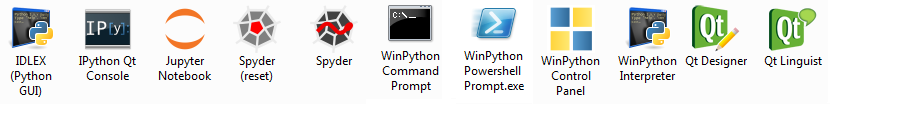
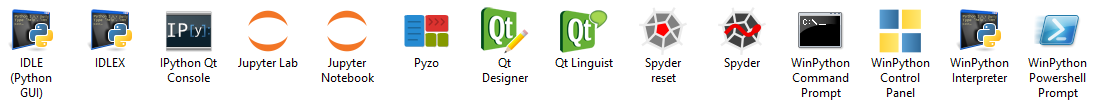
WinPython 2018-03 final

diff --git a/index.html b/index.html
@@ -26,6 +26,15 @@
 </p>
 
 		<h2 id="releases">Recent Releases </h2>
+		<p>Release <a href="https://github.com/winpython/winpython/issues/649">2018-03</a> of September 4th, 2018 </p>
+
+		<p>Highlights (**): pandas-0.23.4, scikit-learn-0.19.2, spyder-3.3.1, jupyterlab-0.34.7 , rise-5.4.1, idlex-1.18 (<a href="https://github.com/winpython/winpython/blob/master/changelogs/WinPythonZero-64bit-3.6.6.2.md">Zero</a> Version)</p>
+		<ul>
+			<li>WinPython <strong>3.6</strong>.6.2Qt5-64bit (*) <a href="https://github.com/winpython/winpython/blob/master/changelogs/WinPythonQt5-64bit-3.6.6.2_History.md">Changelog</a>, <a href="https://github.com/winpython/winpython/blob/master/changelogs/WinPythonQt5-64bit-3.6.6.2.md">Packages</a> and <a href="https://sourceforge.net/projects/winpython/files/WinPython_3.6/3.6.6.2/">Downloads</a></li> or <a href="https://github.com/winpython/winpython/releases/tag/1.10.20180827">Github Downloads</a></li>
+			<li>WinPython <strong>3.6</strong>.6.2Qt5-32bit (*) <a href="https://github.com/winpython/winpython/blob/master/changelogs/WinPythonQt5-32bit-3.6.6.2_History.md">Changelog</a>, <a href="https://github.com/winpython/winpython/blob/master/changelogs/WinPythonQt5-32bit-3.6.6.2.md">Packages</a> and <a href="https://sourceforge.net/projects/winpython/files/WinPython_3.6/3.6.6.2/">Downloads</a></li>
+			<li>WinPython <strong>3.7</strong>.0.2-64bit  (*) <a href="https://github.com/winpython/winpython/blob/master/changelogs/WinPython-64bit-3.7.0.2_History.md">Changelog</a>, <a href="https://github.com/winpython/winpython/blob/master/changelogs/WinPython-64bit-3.7.0.2.md">Packages</a> and <a href="https://sourceforge.net/projects/winpython/files/WinPython_3.7/3.7.0.2/">Downloads</a></li>
+			<li>WinPython <strong>3.7</strong>.0.2-32bit  (*) <a href="https://github.com/winpython/winpython/blob/master/changelogs/WinPython-32bit-3.7.0.2_History.md">Changelog</a>, <a href="https://github.com/winpython/winpython/blob/master/changelogs/WinPython-32bit-3.7.0.2.md">Packages</a> and <a href="https://sourceforge.net/projects/winpython/files/WinPython_3.7/3.7.0.2/">Downloads</a></li>
+		</ul>
 		<p>Release <a href="https://github.com/winpython/winpython/issues/609">2018-02</a> of July 21st, 2018 </p>
 
 		<p>Highlights (**): Python-3.7.0, pandas-0.23.3, jupyterlab-0.32.1 (beta 2) + nodejs-8.11.2, scipy-1.1.0, spyder-3.3.0 (<a href="https://github.com/winpython/winpython/blob/master/changelogs/WinPythonZero-64bit-3.6.6.1.md">Zero</a> Version)</p>
@@ -45,16 +54,6 @@
 			<li>WinPython <strong>3.6</strong>.5.0Qt5-32bit (*) <a href="https://github.com/winpython/winpython/blob/master/changelogs/WinPythonQt5-32bit-3.6.5.0_History.md">Changelog</a>, <a href="https://github.com/winpython/winpython/blob/master/changelogs/WinPythonQt5-32bit-3.6.5.0.md">Packages</a> and <a href="https://sourceforge.net/projects/winpython/files/WinPython_3.6/3.6.5.0/">Downloads</a></li>
 			<li>WinPython <strong>3.7</strong>.0.0b4-64bit (alpha) <a href="https://github.com/winpython/winpython/blob/master/changelogs/WinPython-64bit-3.7.0.0_History.md">Changelog</a>, <a href="https://github.com/winpython/winpython/blob/master/changelogs/WinPython-64bit-3.7.0.0.md">Packages</a> and <a href="https://sourceforge.net/projects/winpython/files/WinPython_3.7/3.7.0.0/alphas">Downloads</a></li>
 		</ul>
-		<p>Release <a href="https://github.com/winpython/winpython/issues/558">2017-03</a> of November 7th, 2017 </p>
-
-		<p>Highlights: pandas-0.21.0, scipy-1.0, scikit_learn-0.19.1, statstmodels-20171031, matplotlib-2.1.0, spyder-3.2.4 (<a href="https://github.com/winpython/winpython/blob/master/changelogs/WinPythonZero-64bit-3.6.3.0.md">Zero</a> Version)</p>
-		<ul>
-			<li>WinPython <strong>3.5</strong>.4.1Qt5-64bit (*) <a href="https://github.com/winpython/winpython/blob/master/changelogs/WinPythonQt5-64bit-3.5.4.1_History.md">Changelog</a>, <a href="https://github.com/winpython/winpython/blob/master/changelogs/WinPythonQt5-64bit-3.5.4.1.md">Packages</a> and <a href="https://sourceforge.net/projects/winpython/files/WinPython_3.5/3.5.4.1/">Downloads</a> or <a href="https://github.com/winpython/winpython/releases/tag/1.9.20171031">Github Downloads</a></li>
-			<li>WinPython <strong>3.5</strong>.4.1Qt5-32bit (*) <a href="https://github.com/winpython/winpython/blob/master/changelogs/WinPythonQt5-32bit-3.5.4.1_History.md">Changelog</a>, <a href="https://github.com/winpython/winpython/blob/master/changelogs/WinPythonQt5-32bit-3.5.4.1.md">Packages</a> and <a href="https://sourceforge.net/projects/winpython/files/WinPython_3.5/3.5.4.1/">Downloads</a></li>
-			<li>WinPython <strong>3.6</strong>.3.0Qt5-64bit (*) <a href="https://github.com/winpython/winpython/blob/master/changelogs/WinPythonQt5-64bit-3.6.3.0_History.md">Changelog</a>, <a href="https://github.com/winpython/winpython/blob/master/changelogs/WinPythonQt5-64bit-3.6.3.0.md">Packages</a> and <a href="https://sourceforge.net/projects/winpython/files/WinPython_3.6/3.6.3.0/">Downloads</a></li>
-			<li>WinPython <strong>3.6</strong>.3.0Qt5-32bit (*) <a href="https://github.com/winpython/winpython/blob/master/changelogs/WinPythonQt5-32bit-3.6.3.0_History.md">Changelog</a>, <a href="https://github.com/winpython/winpython/blob/master/changelogs/WinPythonQt5-32bit-3.6.3.0.md">Packages</a> and <a href="https://sourceforge.net/projects/winpython/files/WinPython_3.6/3.6.3.0/">Downloads</a></li>
-		</ul>
-
 
 		<div class="centered"><img style="width: 125px; height: 45px;" alt="WinPython Small Logos" src="images/small_logos.png"></div>
 
@@ -65,7 +64,7 @@
 		<ul>
 			<li>Designed for scientists, data-scientists, and education (thanks to <a href="https://www.numpy.org/">NumPy</a>, <a href="https://www.scipy.org/">SciPy</a>, <a href="https://www.sympy.org/">Sympy</a>, <a href="https://matplotlib.org/">Matplotlib</a>, <a href="https://pandas.pydata.org/">Pandas</a>, <a href="http://www.pyqtgraph.org/">pyqtgraph</a>, etc.):
 			<ul>
-				<li>interactive data processing and visualization using Python with <a href="https://www.spyder-ide.org/">Spyder</a> and <a href="https://jupyter.org/">Jupyter/IPython</a>, or IDLE </li>
+				<li>interactive data processing and visualization using Python with <a href="https://www.spyder-ide.org/">Spyder</a> and <a href="https://jupyter.org/">Jupyter/IPython</a>, Pyzo, IDLEX or IDLE </li>
 				<li>out-of-the-box working Compiler (Mingw64) for Python 3.4, <strong>fully integrated Cython and Numba!</strong> See <a href="https://nbviewer.ipython.org/github/winpython/winpython_afterdoc/blob/master/docs/Winpython_checker.ipynb">included example</a></li>
 				<li>connectors (cffi, odbc, rpy2, scilab2py, requests, ...) for advanced users</li>
 			</ul></li>
